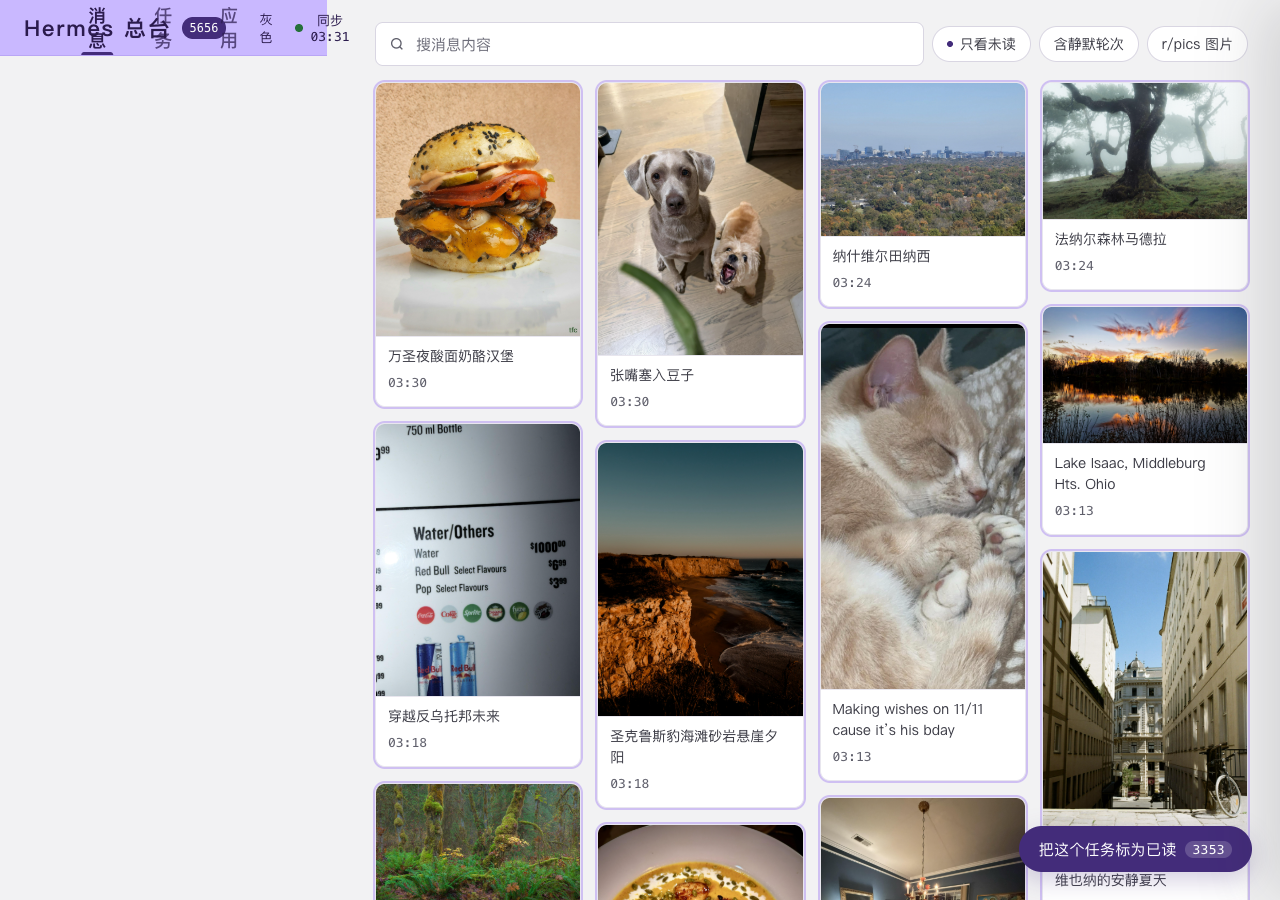
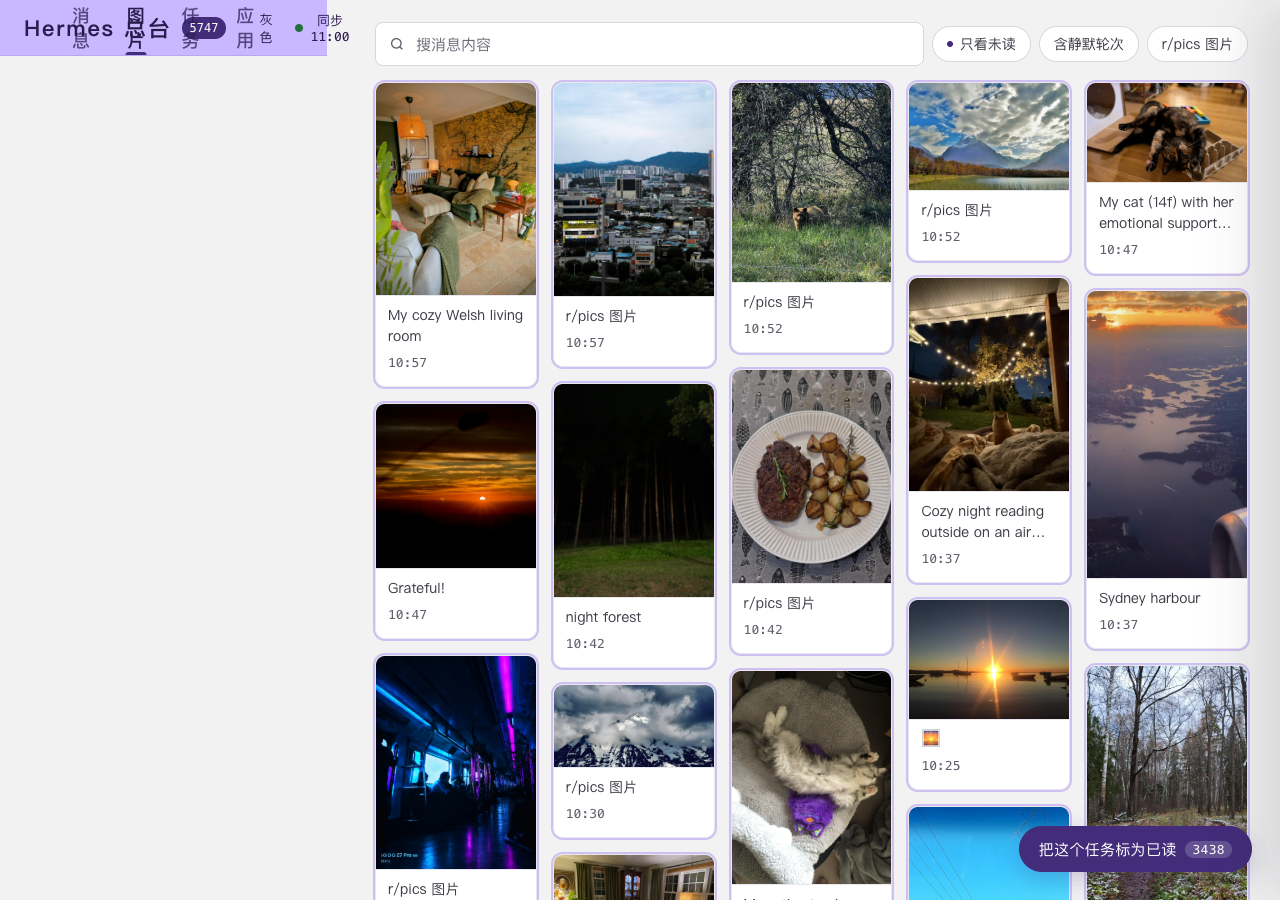
图片独立页签，4-6 列自适应图片墙

diff --git a/static/app.js b/static/app.js
@@ -243,7 +243,7 @@ function deliverText(d) {
 function readUrl() {
   const p = new URLSearchParams(location.hash.slice(1));
   const view = p.get('view');
-  state.view = ['feed', 'jobs', 'apps'].includes(view) ? view : 'feed';
+  state.view = ['feed', 'board', 'jobs', 'apps'].includes(view) ? view : 'feed';
   state.job = p.get('job') || '';
   state.q = p.get('q') || '';
   state.unread = p.get('unread') === '1';
@@ -349,7 +349,7 @@ function renderStats() {
   const count = state.job ? (job ? job.unread || 0 : 0) : (s.unread || 0);
   $('fabCnt').textContent = count;
   $('fab').disabled = !count;
-  $('fab').classList.toggle('hidden', state.view !== 'feed');
+  $('fab').classList.toggle('hidden', state.view !== 'feed' && state.view !== 'board');
   $('fab').firstChild.nodeValue = state.job ? '把这个任务标为已读 ' : '全部标为已读 ';
 
   if (s.first_at && s.newest_at) {
@@ -632,9 +632,8 @@ function mediaHtml(media, m) {
 let boardItems = [];
 
 function boardColumns() {
-  if (window.innerWidth <= 640) return 2;
-  if (window.innerWidth <= 1080) return 3;
-  return 4;
+  const byWidth = Math.floor((window.innerWidth - 64) / 240);
+  return Math.max(2, Math.min(6, byWidth));
 }
 
 function renderBoard(items) {
@@ -680,19 +679,9 @@ function renderBoardCols() {
   renderPager(boardPagerData);
 }
 
-function isBoardMode(items) {
-  if (!state.job || !items.length) return false;
-  let images = 0;
-  for (const m of items) {
-    for (const p of m.media) if (IMAGE_RE.test(p)) images += 1;
-  }
-  return images >= 8;
-}
-
 function renderTimeline(data) {
   const el = $('timeline');
-  document.body.classList.toggle('board', isBoardMode(data.items));
-  if (isBoardMode(data.items)) {
+  if (state.view === 'board') {
     boardPagerData = data;
     renderBoard(data.items);
     return;
@@ -1048,10 +1037,11 @@ async function copyText(text) {
 
 function showView() {
   document.body.dataset.view = state.view;
-  $('viewFeed').classList.toggle('hidden', state.view !== 'feed');
+  document.body.classList.toggle('board', state.view === 'board');
+  $('viewFeed').classList.toggle('hidden', state.view !== 'feed' && state.view !== 'board');
   $('viewJobs').classList.toggle('hidden', state.view !== 'jobs');
   $('viewApps').classList.toggle('hidden', state.view !== 'apps');
-  $('fab').classList.toggle('hidden', state.view !== 'feed');
+  $('fab').classList.toggle('hidden', state.view !== 'feed' && state.view !== 'board');
 }
 
 function goView(view, push) {
@@ -1066,7 +1056,7 @@ function goView(view, push) {
   showView();
   syncControls();
   writeUrl(push ? 'push' : 'replace');
-  if (view === 'feed') loadMessages();
+  if (view === 'feed' || view === 'board') loadMessages();
   if (view === 'jobs') renderTasks();
   if (view === 'apps') renderApps();
   window.scrollTo({ top: 0 });
@@ -1276,7 +1266,7 @@ function bind() {
   window.addEventListener('resize', () => {
     clearTimeout(resizeTimer);
     resizeTimer = setTimeout(() => {
-      if (document.body.classList.contains('board')) renderBoardCols();
+      if (state.view === 'board') renderBoardCols();
     }, 200);
   });
 
@@ -1285,7 +1275,7 @@ function bind() {
     $('searchInput').value = state.q;
     showView();
     syncControls();
-    if (state.view === 'feed') loadMessages();
+    if (state.view === 'feed' || state.view === 'board') loadMessages();
     if (state.view === 'jobs') renderTasks();
     if (state.view === 'apps') renderApps();
   });
@@ -1301,7 +1291,7 @@ async function manualSync() {
     state.until = null;
     $('newBar').classList.add('hidden');
     await loadOverview();
-    if (state.view === 'feed') await loadMessages();
+    if (state.view === 'feed' || state.view === 'board') await loadMessages();
   } catch (err) {
     toast('同步失败：' + err.message);
   } finally {
@@ -1319,7 +1309,7 @@ async function boot() {
   syncControls();
   try {
     await loadOverview();
-    if (state.view === 'feed') await loadMessages();
+    if (state.view === 'feed' || state.view === 'board') await loadMessages();
   } catch (err) {
     const box = state.view === 'apps' ? $('appsGrid') : state.view === 'jobs' ? $('jobsGrid') : $('timeline');
     box.innerHTML = `<div class="empty"><span class="big">读取失败</span>${esc(err.message)}<button class="btn-sm" id="retryBoot">重试</button></div>`;

diff --git a/static/index.html b/static/index.html
@@ -20,6 +20,7 @@ try { if (localStorage.getItem("hub_theme") === "gray") document.documentElement
   </div>
   <nav class="tabs" role="tablist">
     <button class="tab active" data-view="feed" role="tab" aria-selected="true">消息</button>
+    <button class="tab" data-view="board" role="tab" aria-selected="false">图片</button>
     <button class="tab" data-view="jobs" role="tab" aria-selected="false">任务</button>
     <button class="tab" data-view="apps" role="tab" aria-selected="false">应用</button>
   </nav>

diff --git a/static/style.css b/static/style.css
@@ -581,7 +581,7 @@ body[data-view="apps"] .main { max-width: 1120px; }
 /* ---------- 图片墙 ---------- */
 
 body.board .sidebar { display: none; }
-body.board .shell { grid-template-columns: minmax(0, 1fr); }
+body.board .shell { grid-template-columns: minmax(0, 1fr); max-width: none; }
 body.board .main { max-width: none; padding: 22px 32px 120px; }
 
 .board { display: flex; align-items: flex-start; gap: 16px; }

diff --git a/开发记录.md b/开发记录.md
@@ -2,6 +2,33 @@
 
 按时间倒序，最新的记在最上面。
 
+## 2026-11-27 图片页签与备货池孤儿图
+
+需求原话：http://127.0.0.1:8970/#job=19ea59dce61f 把它作为一个 view 比较合适，可以改为 4--6列显示。上一条：r/pics 备货池孤儿图堆积 626 个 756.8MB（阈值 300），磁盘可能被无效文件占满；左边 css 渲染堆叠到一起。
+
+### 图片墙改为独立页签
+
+1. 顶部新增图片页签，深链 #view=board，任务筛选与搜索沿用；消息页签恢复纯列表，不再按内容自动切换。
+2. 列数随窗口宽度自适应：约每 240 像素一列，桌面 4 到 6 列，实测 1280 五列、1600 六列、手机两列；图片页签隐藏侧栏并取消 1240 宽度上限，真正铺满。
+3. 右键保存与分享到 X、灯箱按钮、失效占位逻辑全部保留。
+
+### 渲染堆叠的根因
+
+迭代中的多列布局中间版本曾在 8970 上短暂可见，多列容器在该版本里算出了 49 像素的窄列，页面看起来全部堆在左边。当轮已改成按列分桶的 flex 布局并重拍截图；本轮起所有中间版本只在 8955 这类私有端口验证，不再占用默认端口。
+
+### 备货池孤儿图
+
+1. 根因：prune_orphans 只挂在补货链路末尾，池子在低水位之上时不再派补货进程，清理随之停摆，投递过的图一直堆到池子再次跌破水位才被批量清掉，626 个 756.8MB 就是这么堆出来的。
+2. 修复：reddit_single.py 主链路每轮投递前先清理一次，不再依赖补货进程；补货链路里的原调用保留。
+3. 现状：实测清掉 3 个超期孤儿，盘上 422 个文件里孤儿 183 个、全部在 6 小时投递窗口内、超期 0 个，后续每轮都会清，不会再冲破 300 阈值。
+4. 该改动在 reddit_task 工作区，未提交 git；那边还有其他未提交改动，等明确要求再一并处理。
+
+### 验证
+
+1. 无头实测四个页签切换、#view=board&job=19ea59dce61f 深链、1280 五列、1600 六列、手机两列、右键菜单两项、失效图只留分享，控制台除懒加载尺寸提示外无报错。
+2. 效果图更新 11-图片墙、12-移动端图片墙，新增 13-宽屏六列。
+3. 29 个测试全过。
+
 ## 2026-11-27 r/pics 图片墙与分享
 
 需求原话：修改这个 reddit pic 的界面，改为类似 pinterest 那种 铺满屏幕的做法，4列就行了，而且图片缩略图尺寸大一点，另外，我想能直接分享某个我喜欢的图片，每个图片，我右键单击，除了保存到本地，还可以分享到 X。

diff --git a/README.md b/README.md
@@ -5,7 +5,7 @@ Hermes 定时任务的消息时间线，外加独立应用面板。界面标题 
 ## 功能
 
 1. 时间线：全部任务消息按天倒序，未读有标记，长消息可折叠。
-2. 图片墙：单看图片类任务时自动切四列瀑布流，缩略图按原图比例放大，右键可保存原图、分享到 X。
+2. 图片墙：独立页签，4 到 6 列瀑布流随窗口宽度自适应并铺满整屏，缩略图按原图比例放大，右键可保存原图、分享到 X。
 2. 检索与筛选：按任务、关键词、未读、静默轮次筛选，搜索词高亮，分页显示总数。
 3. 任务健康：调度、投递目标、24 小时运行与产出、下次运行、失败连击与原始错误。
 4. 已读水位：全局或单个任务标为已读，减少重复阅读。
